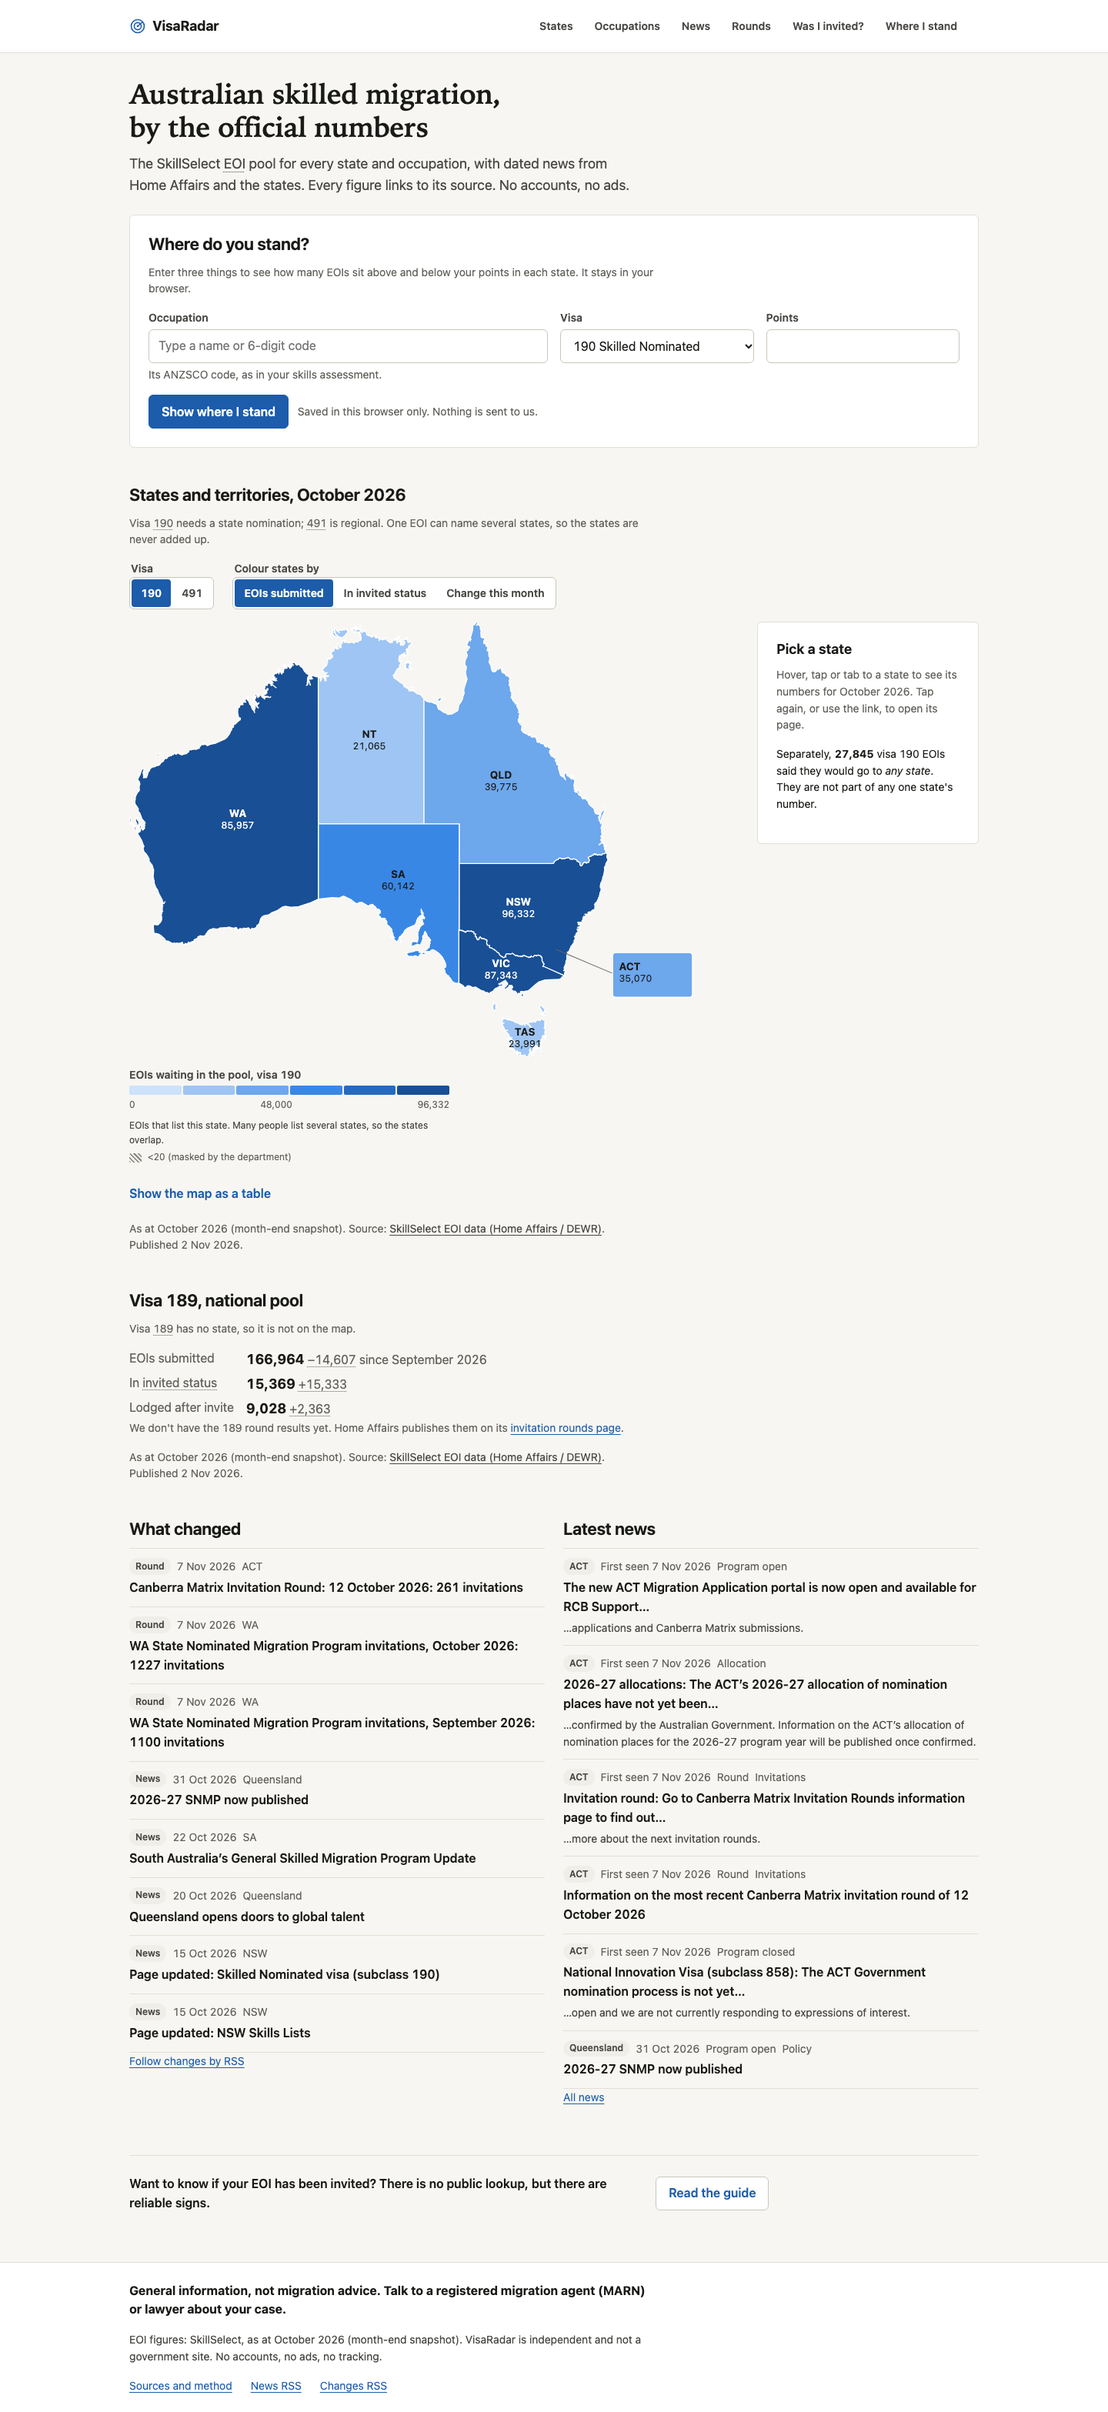
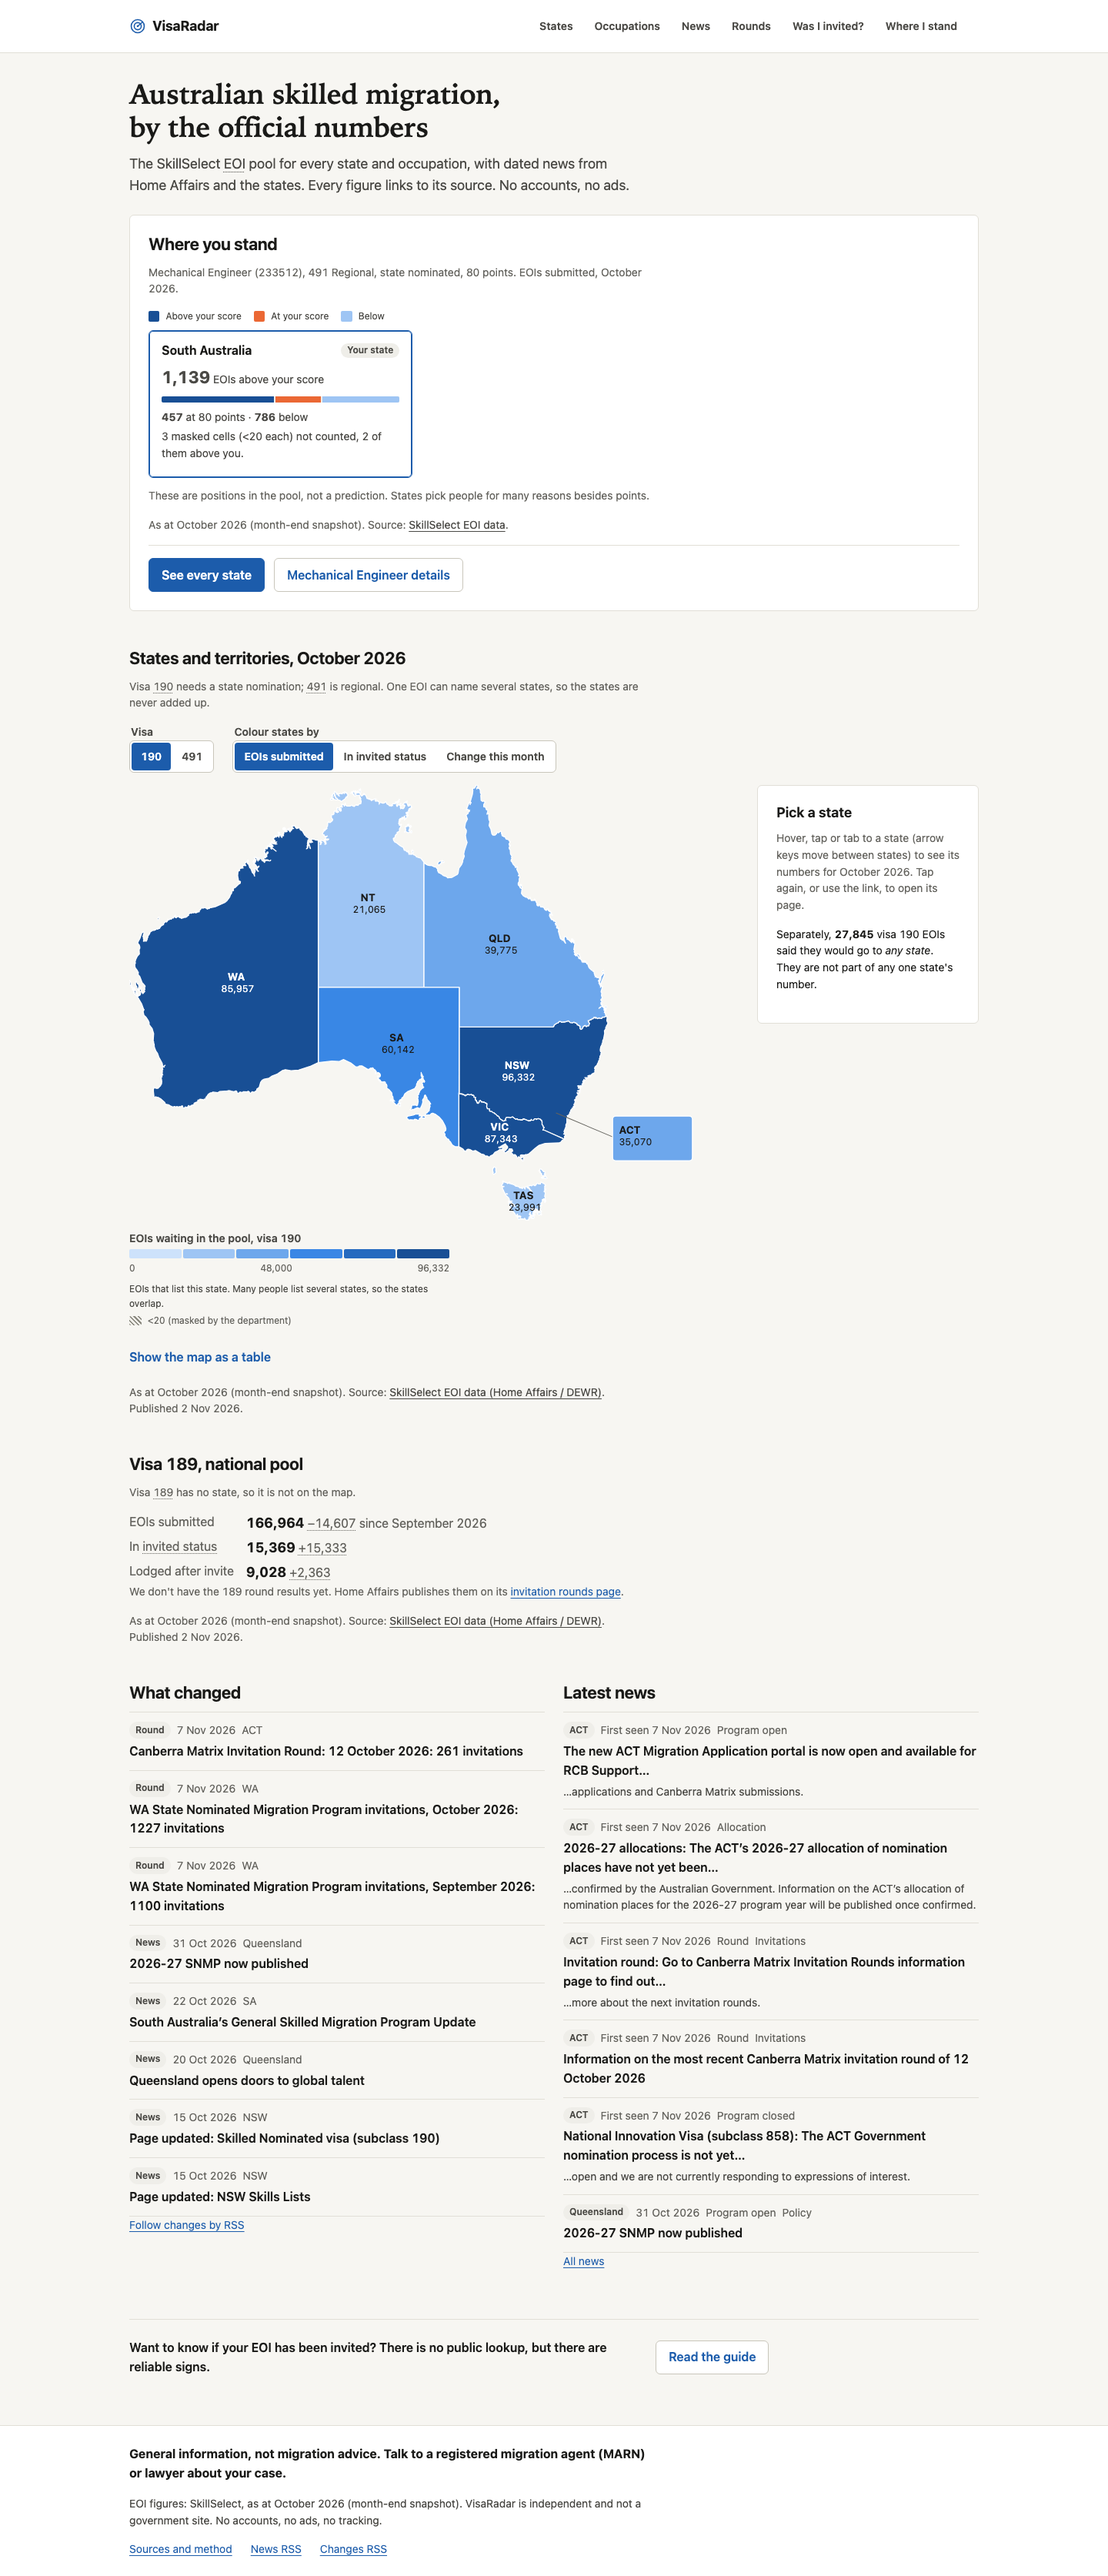
screenshots: generator spec with a made-up persona (233512, 491, SA, 80); regenerate docs/screenshots

Changed region(s): [[0.0938, 0.0, 0.875, 1.0], [0.6875, 0.2785, 0.8438, 0.3713], [0.5938, 0.8973, 0.6875, 0.9282]]

diff --git a/tests/e2e/screenshots.spec.ts b/tests/e2e/screenshots.spec.ts
@@ -1,0 +1,52 @@
+import type { Browser } from '@playwright/test';
+import { test, expect } from '@playwright/test';
+import { PERSONA } from './persona';
+
+// Regenerates docs/screenshots/ with the made-up PERSONA. Skipped unless SCREENSHOTS=1 (`npm run screenshots`).
+test.skip(!process.env.SCREENSHOTS, 'set SCREENSHOTS=1 to regenerate docs/screenshots');
+
+const SIZES = [
+  { name: 'desktop', viewport: { width: 1440, height: 900 }, isMobile: false },
+  { name: 'mobile', viewport: { width: 390, height: 844 }, isMobile: true },
+] as const;
+
+async function contextFor(browser: Browser, size: (typeof SIZES)[number], baseURL: string | undefined) {
+  const context = await browser.newContext({
+    baseURL,
+    viewport: size.viewport,
+    deviceScaleFactor: 1,
+    isMobile: size.isMobile,
+    hasTouch: size.isMobile,
+    colorScheme: 'light',
+  });
+  await context.addInitScript((p) => localStorage.setItem('visaradar.profile.v1', JSON.stringify(p)), PERSONA);
+  return context;
+}
+
+for (const size of SIZES) {
+  test(`screenshots at ${size.name}`, async ({ browser, baseURL }, info) => {
+    test.skip(info.project.name !== 'desktop', 'one run makes both sizes');
+    const context = await contextFor(browser, size, baseURL);
+    const page = await context.newPage();
+    const shot = (name: string) => page.screenshot({ path: `docs/screenshots/${name}-${size.name}.png`, fullPage: true, animations: 'disabled' });
+
+    await page.goto('/');
+    await expect(page.getByTestId('home-profile')).toContainText(PERSONA.name);
+    await page.waitForLoadState('networkidle');
+    await shot('home');
+
+    await page.goto('/me/');
+    await expect(page.getByTestId('me-points')).toHaveText(String(PERSONA.points));
+    await shot('me');
+
+    // The occupation page set to the persona's visa and state, so the "your points" bar shows.
+    await page.goto(`/occupations/${PERSONA.code}/`);
+    await page.locator(`input[name="occ-visa"][value="${PERSONA.visa}"]`).check({ force: true });
+    await page.getByLabel('State', { exact: true }).selectOption(PERSONA.state);
+    await expect(page.locator('.chart .bar.you')).toHaveCount(1);
+    await page.waitForLoadState('networkidle');
+    await shot('occupation');
+
+    await context.close();
+  });
+}
